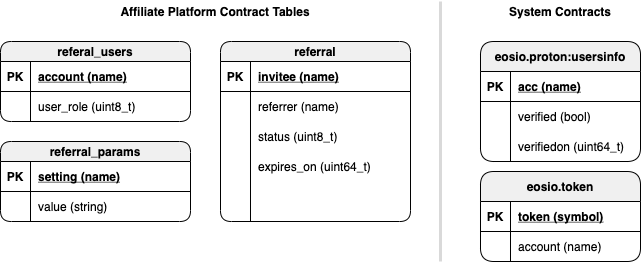
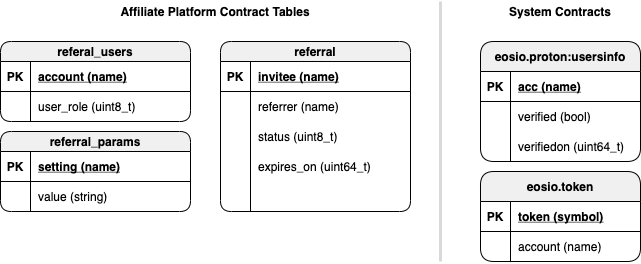
docs(readme): update smart contract readme

Changed region(s): [[0.0, 0.4848, 0.312, 0.8485], [0.3432, 0.7879, 0.6552, 0.8485]]

diff --git a/contracts/affiliatepoc/src/affiliatepoc.cpp b/contracts/affiliatepoc/src/affiliatepoc.cpp
@@ -25,8 +25,10 @@ ACTION add_user(name account, uint8_t user_role) {
 
 ACTION create_referral(name invitee, name referrer) {
   // check user is authorized as referrer
+  bool is_referer = ( find(referral_users.begin(), referral_users.end(), referrer) != referral_users.end() );
 
   // check invitee is not a registered account
+  if (!is_account(invitee))
 
   // calculate expires_on date
 
@@ -36,14 +38,27 @@ ACTION create_referral(name invitee, name referrer) {
 }
 
 ACTION expire_referral(name ivitee) {
+  // user must be smart contract account called from backend service
+  require_auth(get_self());
+
+  // Init the referals table
+  referals _referral_table(get_self(), get_self().value);
+
+  auto itr = referals.find(ivitee.value);
+  eosio::check(itr != referals.end(), "Referal does not exist");
+
   // check if expires_on is >= .now()  
 
-  // set referal status to EXPIRED 
+  // if outside of time perdiod set referal status to EXPIRED 
 
   // delete record to save RAM
+  referral.erase(referral_itr);
 }
 
 ACTION verify_referral(name invitee) {
+  // user must be smart contract account called from backend service
+  require_auth(get_self()); 
+
   // check if invitee is in acc column in eosio.proton:usersinfo table
 
   // if no record is found status remains PENDING_USER_REGISTRATION
@@ -54,23 +69,39 @@ ACTION verify_referral(name invitee) {
 }
 
 ACTION pay_referral(name invitee) {
+  // user must be admin or smart contract account called from backend service
+  require_auth(is_admin());
+
   // transfer REFERRAL_AMOUNT to invitee and referrer
+    eosio::transaction txn{};
+    txn.actions.emplace_back(
+        eosio::permission_level(from, N(active)),
+        N(eosio.token),
+        N(transfer),
+        std::make_tuple(from, to, quantity, memo));
+    txn.send(eosio::string_to_name(memo.c_str()), from);
 
   // set referal status to  PAID
 
   // delete record to save RAM
+  referral.erase(referral_itr);
 }
 
-ACTION reject_payment(name invitee) {
+ACTION reject_payment(name invitee, string memo) {
+  // user must be admin or smart contract account called from backend service
+  require_auth(is_admin());
+
   // Check user is admin 
 
   // set referal status to PAYMENT_REJECTED
 
   // delete record to save RAM
+  referral.erase(referral_itr);
 }
 
 ACTION set_params(symbol token, name reward_account, uint8_t reward_amount, uint64_t expiry_period, bool manual_review) { 
 // check user is admin 
+require_auth(is_admin());
 
 // update params table
 }

diff --git a/contracts/affiliatepoc/include/affiliatepoc.hpp b/contracts/affiliatepoc/include/affiliatepoc.hpp
@@ -12,7 +12,7 @@ CONTRACT affiliatepoc : public contract {
     ACTION expire_referral(name ivitee);
     ACTION verify_referral(name invitee);
     ACTION pay_referral(name invitee);
-    ACTION reject_payment(name invitee);
+    ACTION reject_payment(name invitee, string memo);
     ACTION set_params(symbol token, name reward_account, uint8_t reward_amount, uint64_t expiry_period, bool manual_review);
     ACTION clear();
 
@@ -43,6 +43,7 @@ CONTRACT affiliatepoc : public contract {
       name      referrer;
       uint64_t  status;
       uint64_t  expires_on;
+      string    memo;
       auto primary_key() const { return invitee.value; }
     };
     typedef multi_index<name("referrals"), referrals> referrals_table;

diff --git a/contracts/affiliatepoc/README.md b/contracts/affiliatepoc/README.md
@@ -1,13 +1,73 @@
-# affiliatepoc
+# Proton Affiliate Platform
 
 A fully on-chain affiliate marketing platform, rewarding users in XPR coin for referring another user to the Proton platform.
 
+## Smart Contract POC
+
+The **afiliatepoc** smart contract will store referral info, validation info, and issue rewards for a successfully validated referral.
+
 ## User Story
 
-@benobi invites crystalrose@gmail.com via the giveprotongetproton.com website, then if crystal converts to a real user ( @anything ) in 72 hours then ben is the parent of crystal and will get the reward when crystal KYCs. Crystal will also get a reward for signing up.
+@benobi invites crystalrose@gmail.com via the earnproton.com website, then if crystal converts to a real user ( @anything ) in 72 hours then ben is the parent of crystal and will get the reward when crystal KYCs. Crystal will also get a reward for signing up.
 
 ## Data Model
 
+Data persisted in the smart contract multi index tables
+
+<p align="center">
+		<img src="/docs/img/data-model.png" width="300">
+</p>
+
+### Referal Status
+
+```
+  PENDING_USER_REGISTRATION = 1
+  PENDING_KYC_VERIFICATION = 2
+  PENDING_PAYMENT = 3
+  PAYMENT_REJECTED = 4
+  EXPIRED = 5
+  PAID = 6
+```
+
+### User Roles
+
+```
+  ADMIN = 1
+  REFERRER = 2
+```
+
 ## Actions
 
+|    User Role    |      Action       |       Description        |               Pre Conditions                |        Post Conditions         |
+| :-------------: | :---------------: | :----------------------: | :-----------------------------------------: | :----------------------------: |
+|      Admin      |    `add_user`     | Grant Referal Permission |       Account must exist and be KYCd        | Referal link enabled for user  |
+|    Referrer     |        N/A        |    Share Referal Link    |         Referral permission granted         | Email sent with register link  |
+|     Invitee     | `create_referral` |     Accept Referral      | Account doesnt exist & not already referred |   Referreral added to table    |
+| Backend Service | `verify_referral` |  Verify new account KYC  |    KYC completed & Referal hasnt expired    | Referral set for manual review |
+| Backend Service | `expire_referral` | Delete Expired Referrals |          Referral hasn’t been paid          |        Referral deleted        |
+|      Admin      |  `pay_referral`   |     Manual Approval      |                                             |         Token Transfer         |
+|      Admin      | `reject_payment`  |      System Config       |                                             |        Referral deleted        |
+|      Admin      |   `set_params`    |      System Config       |                                             |                                |
+
+#### Params
+
+Referral system configuration parameters set by admin user.
+
+- **token_symbol** : Token used to pay rewards _(symbol)_
+- **reward_account** : Account that holds token balance _(name)_
+- **reward_amount** : Amount of tokens rewarded _(number)_
+- **expiry_period** : Time period for referal expiration _(datetime)_
+- **manual_review** : Manual review required _(true or false)_
+
 ## Services Architecture
+
+In order to send emails and to store the email addresses "off chain" we would need some backend services , meaning someone would have to host the email server and database
+
+<p align="center">
+		<img src="/docs/img/services.png" width="300">
+</p>
+
+### Admin Roles Appointed by Committee
+
+- Smart Contract Admin can update config params
+- SysAdmin hosts backend service and email server
